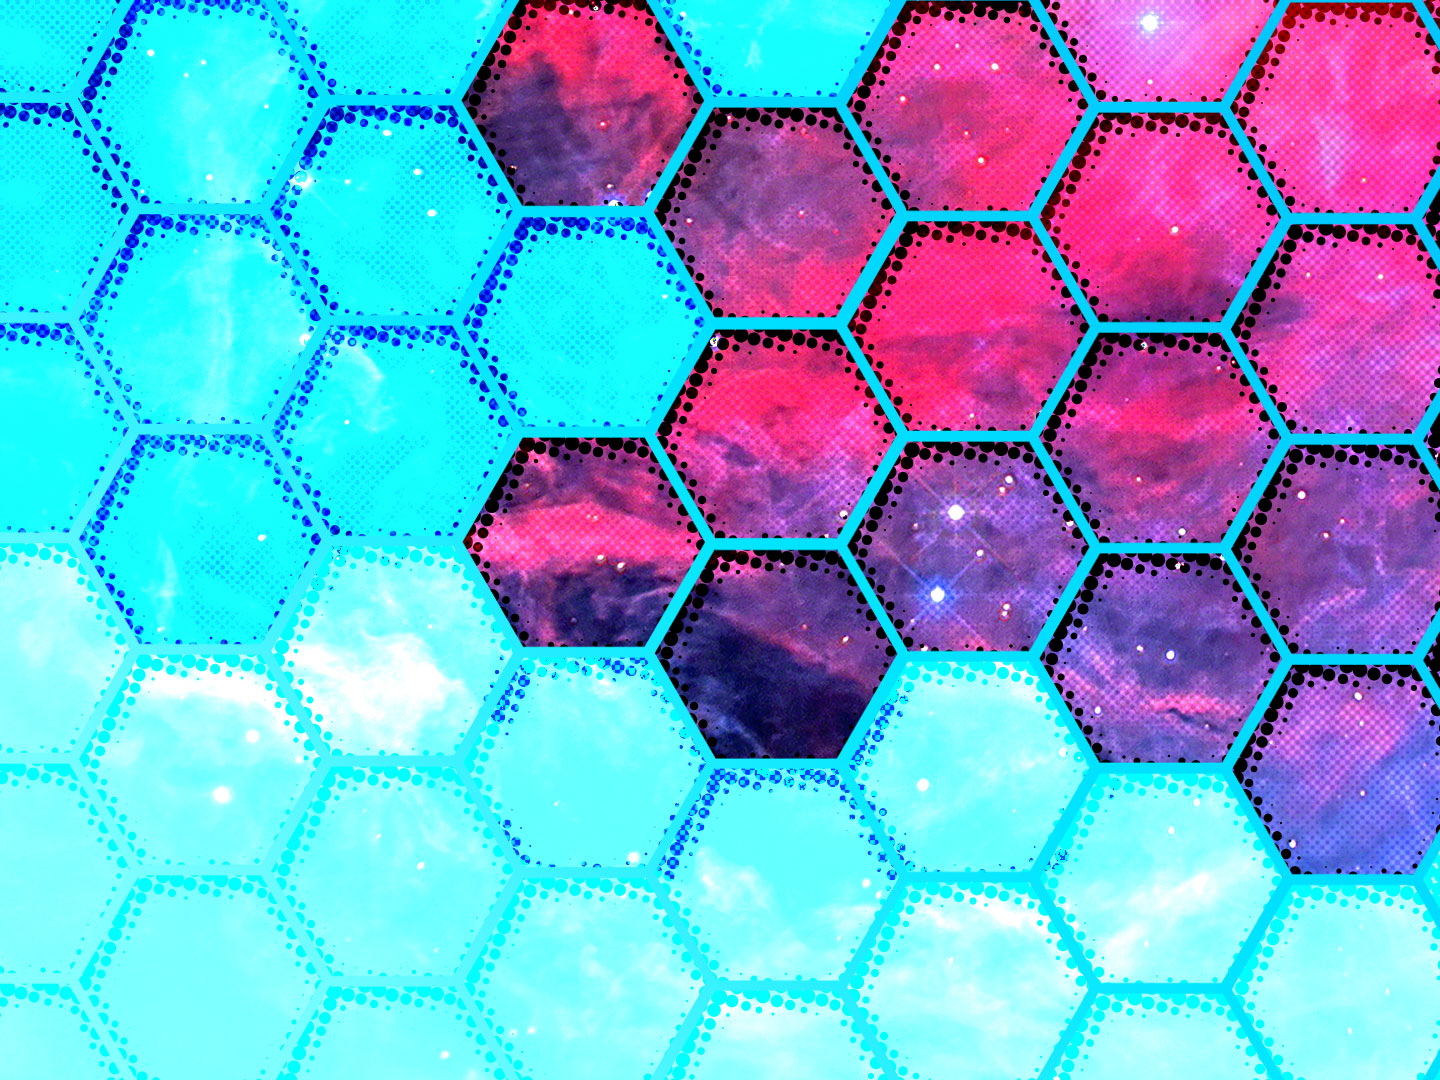
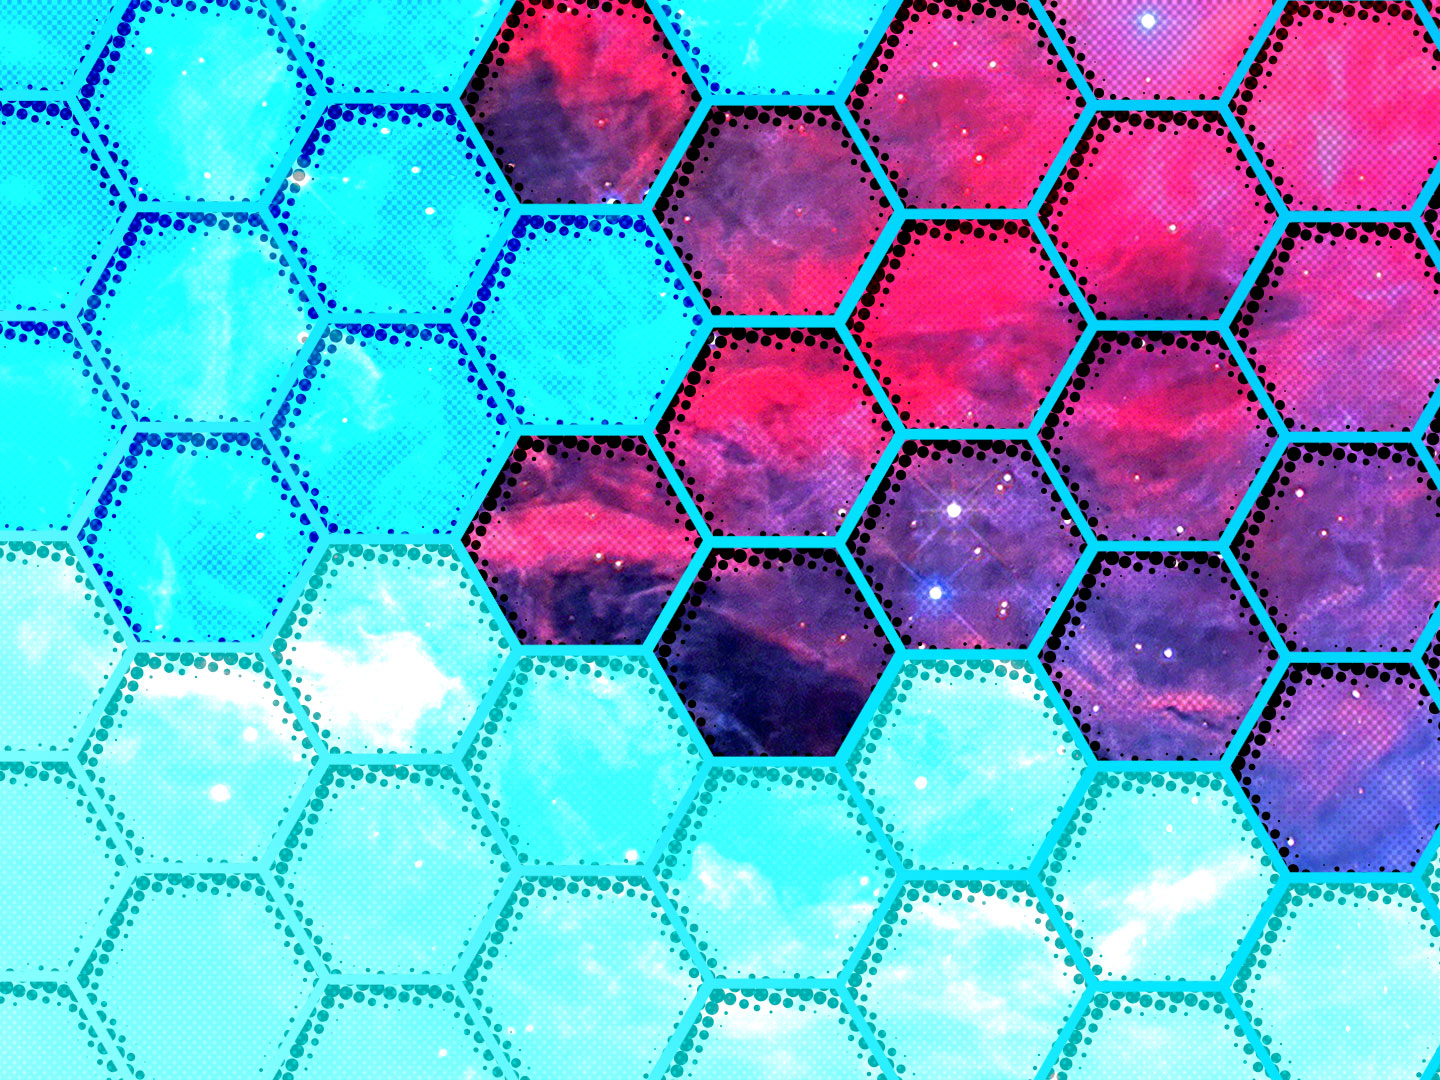
Header imagery unified and made durable via smart objects in Photoshop; wide screen and narrow screen now match; max: 1280, max: 1024 - ready in chrome; saving progress

diff --git a/css/jomocon.scss b/css/jomocon.scss
@@ -44,7 +44,7 @@ body {
   // }
 
   &>  footer {
-    border: 1px solid green;
+    // border: 1px solid green;
     margin-bottom: 0;
   }
 
@@ -199,7 +199,7 @@ header {
     height: 825px;
 
     .landing {
-      background: url('/img/jomocon-header-image-720-narrow.jpg');
+      background: url('/img/jomocon-header-image-1080-narrow.jpg');
       background-repeat: no-repeat;
       background-size: contain;
       background-attachment: fixed;
@@ -323,7 +323,6 @@ header {
     
     .card {
       height: 350px;
-      // width: 200px;
       background: $colorDk;
       display: flex;
       justify-content: space-around;
@@ -386,7 +385,7 @@ header {
     address {
       display: block;
       font-style: normal;
-      width: 620px;
+      width: 45vw;
       display: flex;
       flex-direction: column;
       align-items: center;
@@ -418,12 +417,6 @@ header {
     }
   }
 }
-
-// mixins
-
-// functions
-
-// core css
 
 // utility classes
 .openNav {
@@ -516,14 +509,126 @@ header {
       height: 850px;
   
       .landing {
-        background: url('/img/jomocon-header-image-1080-narrow.jpg');
+        background: url('/img/jomocon-header-image-720-narrow.jpg');
+        background-size: cover;
+        background-attachment: scroll;
       }
     }
+  }
+
+  .home-feature2 {
+    .teamCards {
+      .card {
+        height: 300px;
+
+        .imgAndNameHolder .cardAvatar {
+          width: 120px;
+          height: 120px;
+        }
+      }
+    }
+  }
+
+  .closedCard {
+    width: 160px !important;
   }
 }
 
 // 1024
-@media screen and (max-width: 1024) {
+@media screen and (max-width: 1024px) {
+  nav {
+    width: 7vw;
+    border-right: 7px solid $colorLt;
+
+    div.navContainer {
+      & > a.close-nav {
+        right: .2em;
+      }
+
+      .logoHolder {
+        a {
+          font-size: 2.5rem;
+  
+          .bigger {
+            font-size: 3rem;
+          }
+        }
+      }
+
+      div.navSocials {
+        a {
+          .navImg {
+            width: 4vw;
+          }
+        }
+      }
+    }
+  }
+
+  .home-feature1,
+  .home-feature2,
+  .home-feature1_5 {
+    padding: 1em 3em;
+    font-size: 2rem;
+    line-height: 1.3;
+
+    h2, h3 {
+      letter-spacing: .05em;
+      margin-bottom: .4em;
+      text-shadow: .1em .1em $colorLgDk;
+
+      span.bigger {
+        font-size: 3.5rem;
+      }
+    }
+
+    p {
+      margin-bottom: .5em;
+    }
+  }
+
+  .home-feature1_5 {
+    .formsContainer {
+      flex-direction: column;
+
+      .panelForm,
+      .sponsorForm {
+        width: 80vw;
+      }
+    }
+  }
+
+  .home-feature2 {
+    .teamCards {
+      .card {
+        height: 280px;
+
+        .imgAndNameHolder .cardAvatar {
+          width: 100px;
+          height: 100px;
+        }
+      }
+    }
+  }
+
+  #footer {
+    .footerContactInfo {
+      flex-direction: column;
+      gap: 1.5em;
+  
+      address {
+        width: 80vw;
+      }
+    }
+  
+    .footerContactForm {
+      width: 80vw;
+    }
+  }
+
+  .closedCard {
+    width: 140px !important;
+  }
 
 }
 

diff --git a/css/jomocon.css b/css/jomocon.css
@@ -19,7 +19,6 @@ body {
   color: #f4f4f4;
 }
 body > footer {
-  border: 1px solid green;
   margin-bottom: 0;
 }
 body .bgVideo {
@@ -143,7 +142,7 @@ header.home-header {
   height: 825px;
 }
 header.home-header .landing {
-  background: url("/img/jomocon-header-image-720-narrow.jpg");
+  background: url("/img/jomocon-header-image-1080-narrow.jpg");
   background-repeat: no-repeat;
   background-size: contain;
   background-attachment: fixed;
@@ -313,7 +312,7 @@ header.home-header .landing .jomoconLogoContainer > img {
 #footer .footerContactInfo address {
   display: block;
   font-style: normal;
-  width: 620px;
+  width: 45vw;
   display: flex;
   flex-direction: column;
   align-items: center;
@@ -386,6 +385,98 @@ header.home-header .landing .jomoconLogoContainer > img {
     height: 850px;
   }
   header.home-header .landing {
-    background: url("/img/jomocon-header-image-1080-narrow.jpg");
+    background: url("/img/jomocon-header-image-720-narrow.jpg");
+    background-size: cover;
+    background-attachment: scroll;
+  }
+
+  .home-feature2 .teamCards .card {
+    height: 300px;
+  }
+  .home-feature2 .teamCards .card .imgAndNameHolder .cardAvatar {
+    width: 120px;
+    height: 120px;
+  }
+
+  .closedCard {
+    width: 160px !important;
+  }
+}
+@media screen and (max-width: 1024px) {
+  nav {
+    width: 7vw;
+    border-right: 7px solid #f4f4f4;
+  }
+  nav div.navContainer > a.close-nav {
+    right: 0.2em;
+  }
+  nav div.navContainer .logoHolder a {
+    font-size: 2.5rem;
+  }
+  nav div.navContainer .logoHolder a .bigger {
+    font-size: 3rem;
+  }
+  nav div.navContainer div.navSocials a .navImg {
+    width: 4vw;
+  }
+
+  .home-feature1,
+.home-feature2,
+.home-feature1_5 {
+    padding: 1em 3em;
+    font-size: 2rem;
+    line-height: 1.3;
+  }
+  .home-feature1 h2, .home-feature1 h3,
+.home-feature2 h2,
+.home-feature2 h3,
+.home-feature1_5 h2,
+.home-feature1_5 h3 {
+    letter-spacing: 0.05em;
+    margin-bottom: 0.4em;
+    text-shadow: 0.1em 0.1em #222222;
+  }
+  .home-feature1 h2 span.bigger, .home-feature1 h3 span.bigger,
+.home-feature2 h2 span.bigger,
+.home-feature2 h3 span.bigger,
+.home-feature1_5 h2 span.bigger,
+.home-feature1_5 h3 span.bigger {
+    font-size: 3.5rem;
+  }
+  .home-feature1 p,
+.home-feature2 p,
+.home-feature1_5 p {
+    margin-bottom: 0.5em;
+  }
+
+  .home-feature1_5 .formsContainer {
+    flex-direction: column;
+  }
+  .home-feature1_5 .formsContainer .panelForm,
+.home-feature1_5 .formsContainer .sponsorForm {
+    width: 80vw;
+  }
+
+  .home-feature2 .teamCards .card {
+    height: 280px;
+  }
+  .home-feature2 .teamCards .card .imgAndNameHolder .cardAvatar {
+    width: 100px;
+    height: 100px;
+  }
+
+  #footer .footerContactInfo {
+    flex-direction: column;
+    gap: 1.5em;
+  }
+  #footer .footerContactInfo address {
+    width: 80vw;
+  }
+  #footer .footerContactForm {
+    width: 80vw;
+  }
+
+  .closedCard {
+    width: 140px !important;
   }
 }/*# sourceMappingURL=jomocon.css.map */
